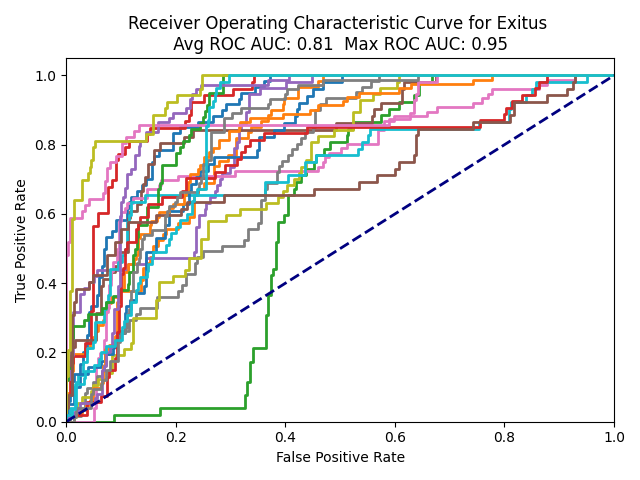
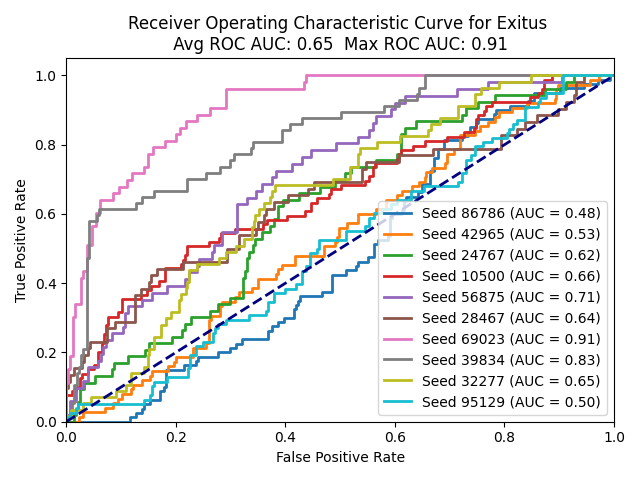
predictions Exitus

diff --git a/predict.py b/predict.py
@@ -15,7 +15,7 @@ from model import get_model, Classifier, Classifier_Many_Layers
 
 
 if __name__ == "__main__":
-    outputs = ['Rebleeding', 'VasoespasmA', 'ANY Vasoespasm ', 'Hydrocephalus', 'Infarction', 'Exitus', 'Epileptic seizure']
+    outputs = ['Exitus', 'ANY Vasoespasm ', 'VasoespasmA', 'Hydrocephalus', 'Infarction', 'Epileptic seizure', 'Rebleeding']
     for configs.target_output in outputs :
         print(configs.target_output)
 
@@ -89,3 +89,5 @@ if __name__ == "__main__":
         plt.savefig(f"{configs.DIR}results_2nd_test_cohort/auc roc 5-model max for {configs.target_output}.png") 
         plt.close()
         print(f"AUC ROC (5-model ensemble average) for {configs.target_output} = {auc_roc:.4f}")
+
+        #TODO : ajouter autres metriques

diff --git a/configs.py b/configs.py
@@ -29,7 +29,7 @@ patient_data2 = 8
 # 0-6 (num_classes = 7): 'mRSalta', 'mRS1año'
 # 0-38+ (num_classes = 3): 'DiasVM'
 # 0-108+ (num_classes = 3): 'DiasUCI'
-target_output = 'Exitus'
+target_output = 'Rebleeding'
 num_classes = 2
 
 # Ro run on gpu if available
